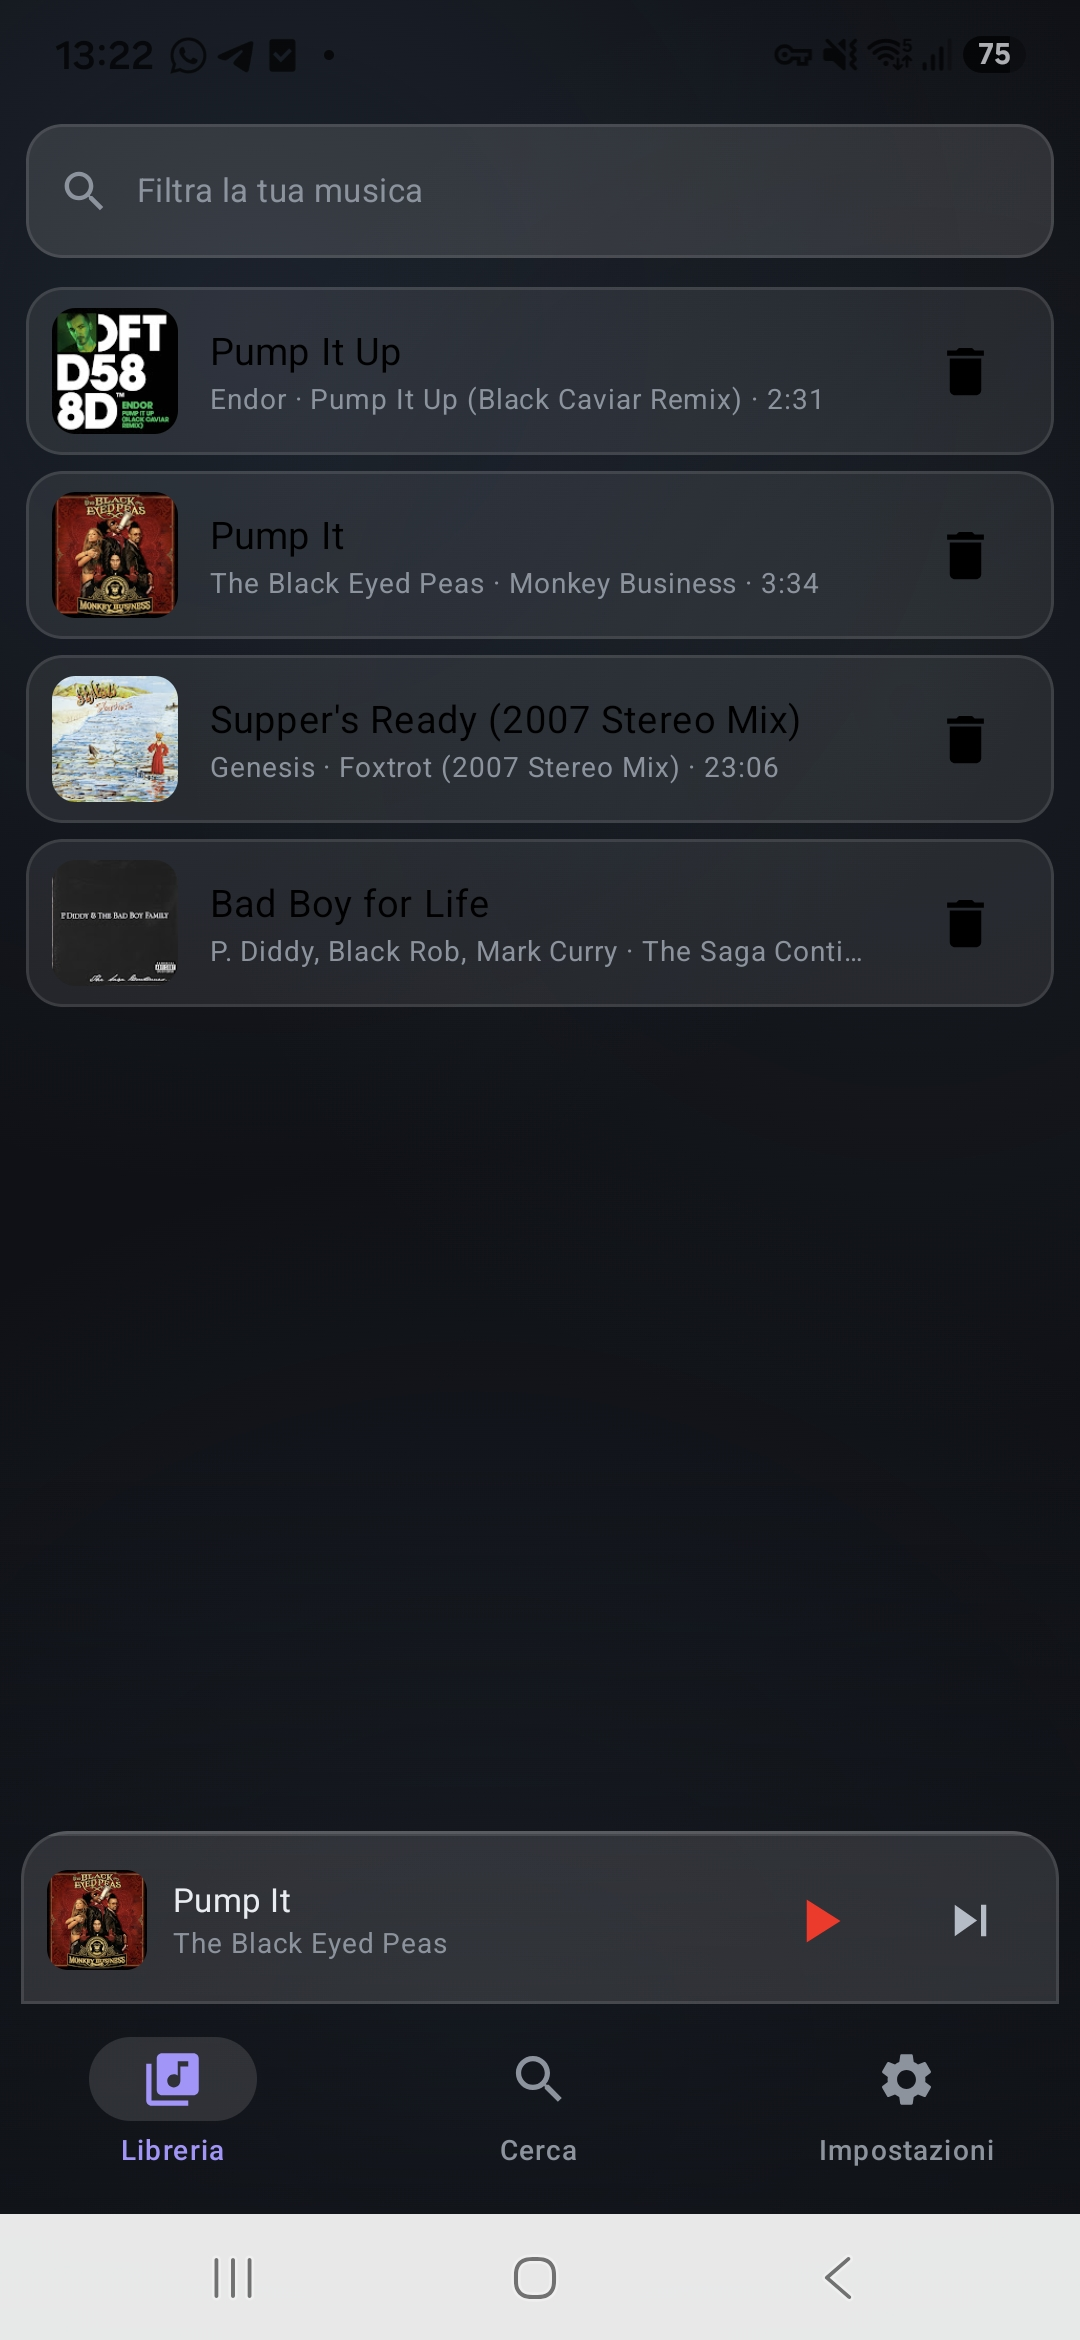
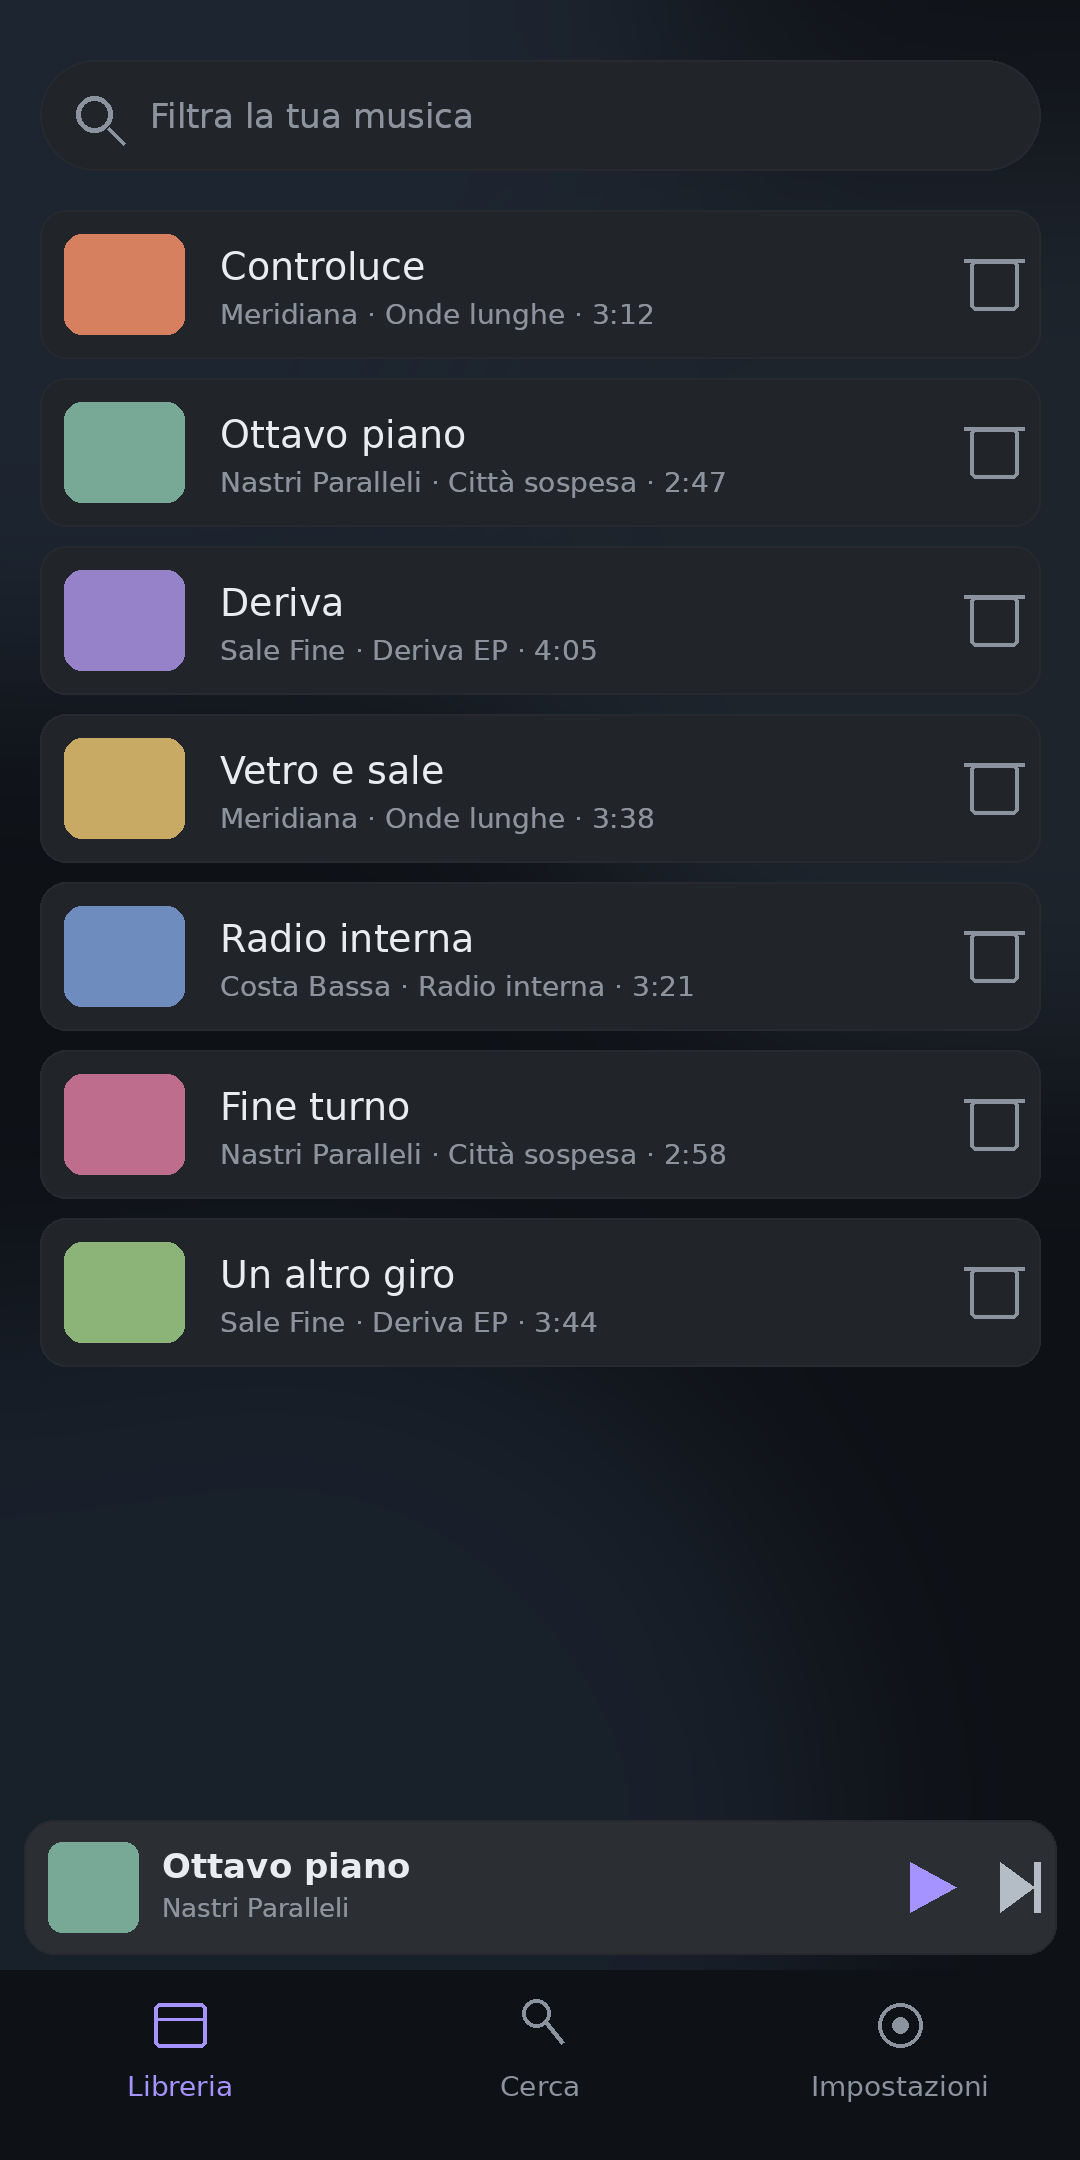
Replace README screenshots with designed mockups (no personal library, no EXIF)

diff --git a/scripts/mockup.py b/scripts/mockup.py
@@ -1,0 +1,198 @@
+"""Genera i due mockup del README dalla palette reale dell'app (Vetro,
+vedi android/app/src/main/java/com/sosound/app/ui/theme/Theme.kt),
+con contenuti di fantasia — non uno screenshot vero, cosi' non porta
+dentro ne' una libreria personale ne' un bug di rendering da capire."""
+
+from PIL import Image, ImageDraw, ImageFont, ImageFilter
+import math
+
+W = 1080
+FONT_DIR = "/usr/share/fonts/truetype/dejavu"
+
+
+def font(size, bold=False):
+    name = "DejaVuSans-Bold.ttf" if bold else "DejaVuSans.ttf"
+    return ImageFont.truetype(f"{FONT_DIR}/{name}", size)
+
+
+GROUND = (14, 17, 22, 255)
+WASH1 = (96, 126, 166)
+WASH2 = (120, 150, 180)
+WASH3 = (80, 110, 150)
+ACCENT = (165, 148, 255, 255)
+ON_ACCENT = (18, 22, 25, 255)
+INK = (233, 236, 241, 255)
+INK_SOFT = (180, 188, 198, 255)
+INK_FAINT = (139, 147, 158, 255)
+GLASS = (255, 255, 255, 20)
+GLASS_STRONG = (255, 255, 255, 31)
+GLASS_EDGE = (255, 255, 255, 26)
+DANGER = (255, 143, 163, 255)
+
+# Tinte diverse per le copertine finte, cosi' le righe si distinguono
+# senza dover disegnare copertine vere.
+COVERS = [
+    (214, 128, 96), (120, 168, 150), (150, 130, 200),
+    (200, 170, 100), (110, 140, 190), (190, 110, 140),
+    (140, 180, 120), (170, 150, 210),
+]
+
+
+def base_canvas(h):
+    img = Image.new("RGBA", (W, h), GROUND)
+    wash = Image.new("RGBA", (W, h), (0, 0, 0, 0))
+    wd = ImageDraw.Draw(wash)
+    for (cx, cy, r, color) in [
+        (W * 0.15, h * 0.08, W * 0.55, (*WASH1, 46)),
+        (W * 0.9, h * 0.28, W * 0.5, (*WASH2, 36)),
+        (W * 0.25, h * 0.85, W * 0.6, (*WASH3, 40)),
+    ]:
+        wd.ellipse([cx - r, cy - r, cx + r, cy + r], fill=color)
+    wash = wash.filter(ImageFilter.GaussianBlur(120))
+    img = Image.alpha_composite(img, wash)
+    return img
+
+
+def glass_panel(draw, box, radius=26, strong=False):
+    draw.rounded_rectangle(box, radius=radius, fill=(GLASS_STRONG if strong else GLASS))
+    draw.rounded_rectangle(box, radius=radius, outline=GLASS_EDGE, width=2)
+
+
+def text_ellipsis(draw, text, f, max_width):
+    if draw.textlength(text, font=f) <= max_width:
+        return text
+    while text and draw.textlength(text + "…", font=f) > max_width:
+        text = text[:-1]
+    return text + "…"
+
+
+def nav_bar(draw, active, h):
+    y0 = h - 190
+    draw.rectangle([0, y0, W, h], fill=(0, 0, 0, 0))
+    items = [("Libreria", "libreria"), ("Cerca", "cerca"), ("Impostazioni", "impostazioni")]
+    cell = W / 3
+    f = font(28)
+    for i, (label, key) in enumerate(items):
+        cx = cell * i + cell / 2
+        color = ACCENT if key == active else INK_FAINT
+        # icone semplificate, non i glifi Material veri: bastano a
+        # leggersi come "libreria/cerca/impostazioni" in miniatura.
+        icy = y0 + 55
+        if key == "libreria":
+            draw.rounded_rectangle([cx - 26, icy - 22, cx + 26, icy + 22], radius=6, outline=color, width=4)
+            draw.line([cx - 26, icy - 6, cx + 26, icy - 6], fill=color, width=3)
+        elif key == "cerca":
+            draw.ellipse([cx - 18, icy - 26, cx + 10, icy + 2], outline=color, width=4)
+            draw.line([cx + 6, icy - 2, cx + 22, icy + 18], fill=color, width=4)
+        else:
+            draw.ellipse([cx - 22, icy - 22, cx + 22, icy + 22], outline=color, width=4)
+            draw.ellipse([cx - 8, icy - 8, cx + 8, icy + 8], fill=color)
+        tw = draw.textlength(label, font=f)
+        draw.text((cx - tw / 2, y0 + 100), label, font=f, fill=color)
+
+
+def mockup_library(path):
+    h = 2160
+    img = base_canvas(h)
+    d = ImageDraw.Draw(img)
+
+    # barra di ricerca
+    glass_panel(d, [40, 60, W - 40, 170], radius=55)
+    d.ellipse([76, 96, 112, 132], outline=INK_FAINT, width=5)
+    d.line([108, 128, 124, 144], fill=INK_FAINT, width=5)
+    d.text((150, 96), "Filtra la tua musica", font=font(34), fill=INK_FAINT)
+
+    tracks = [
+        ("Controluce", "Meridiana · Onde lunghe", "3:12"),
+        ("Ottavo piano", "Nastri Paralleli · Città sospesa", "2:47"),
+        ("Deriva", "Sale Fine · Deriva EP", "4:05"),
+        ("Vetro e sale", "Meridiana · Onde lunghe", "3:38"),
+        ("Radio interna", "Costa Bassa · Radio interna", "3:21"),
+        ("Fine turno", "Nastri Paralleli · Città sospesa", "2:58"),
+        ("Un altro giro", "Sale Fine · Deriva EP", "3:44"),
+    ]
+
+    y = 210
+    row_h = 168
+    for i, (title, sub, dur) in enumerate(tracks):
+        glass_panel(d, [40, y, W - 40, y + row_h - 20])
+        cover = COVERS[i % len(COVERS)]
+        cd = [64, y + 24, 64 + 120, y + row_h - 44]
+        d.rounded_rectangle(cd, radius=18, fill=(*cover, 255))
+        tx = 220
+        d.text((tx, y + 34), title, font=font(38), fill=INK)
+        sub_full = f"{sub} · {dur}"
+        sub_shown = text_ellipsis(d, sub_full, font(28), W - 40 - 100 - tx)
+        d.text((tx, y + 88), sub_shown, font=font(28), fill=INK_FAINT)
+        # cestino, minimale
+        txx = W - 110
+        d.rounded_rectangle([txx, y + 50, txx + 48, y + 100], radius=6, outline=INK_FAINT, width=4)
+        d.line([txx - 6, y + 50, txx + 54, y + 50], fill=INK_FAINT, width=4)
+        y += row_h
+
+    # barra del player
+    py = h - 190 - 150
+    glass_panel(d, [24, py, W - 24, py + 134], radius=30, strong=True)
+    d.rounded_rectangle([48, py + 22, 48 + 90, py + 22 + 90], radius=14, fill=(*COVERS[1], 255))
+    d.text((162, py + 26), "Ottavo piano", font=font(34, bold=True), fill=INK)
+    d.text((162, py + 72), "Nastri Paralleli", font=font(26), fill=INK_FAINT)
+    cx = W - 170
+    d.polygon([(cx, py + 42), (cx, py + 92), (cx + 46, py + 67)], fill=ACCENT)
+    cx2 = W - 80
+    d.polygon([(cx2, py + 42), (cx2, py + 92), (cx2 + 34, py + 67)], fill=INK_SOFT)
+    d.rectangle([cx2 + 34, py + 42, cx2 + 40, py + 92], fill=INK_SOFT)
+
+    nav_bar(d, "libreria", h)
+
+    Image.alpha_composite(Image.new("RGBA", (W, h), GROUND), img).convert("RGB").save(path)
+
+
+def mockup_settings(path):
+    h = 1150
+    img = base_canvas(h)
+    d = ImageDraw.Draw(img)
+
+    d.text((48, 64), "Impostazioni", font=font(48, bold=True), fill=INK)
+
+    cards = [
+        {
+            "title": "Sul telefono",
+            "lines": [("128 brani · 412 MB", INK, 36)],
+        },
+        {
+            "title": "Motore di scaricamento",
+            "lines": [("yt-dlp pronto", INK_SOFT, 32)],
+            "button": "Aggiorna yt-dlp",
+        },
+        {
+            "title": "Aggiornamenti dell'app",
+            "lines": [("Hai la versione 1.1.0", INK_SOFT, 32)],
+            "button": "Controlla aggiornamenti",
+        },
+    ]
+
+    y = 200
+    for card in cards:
+        h_card = 210 + (70 if "button" in card else 0)
+        glass_panel(d, [40, y, W - 40, y + h_card])
+        d.text((72, y + 34), card["title"], font=font(38, bold=True), fill=INK)
+        ly = y + 94
+        for text, color, size in card["lines"]:
+            d.text((72, ly), text, font=font(size), fill=color)
+            ly += size + 14
+        if "button" in card:
+            by = y + h_card - 90
+            d.rounded_rectangle([72, by, W - 72, by + 60], radius=18, fill=ACCENT)
+            bw = d.textlength(card["button"], font=font(30, bold=True))
+            d.text(((W - bw) / 2, by + 12), card["button"], font=font(30, bold=True), fill=ON_ACCENT)
+        y += h_card + 32
+
+    Image.alpha_composite(Image.new("RGBA", (W, h), GROUND), img).convert("RGB").save(path)
+
+
+if __name__ == "__main__":
+    import sys
+    out = sys.argv[1] if len(sys.argv) > 1 else "."
+    mockup_library(f"{out}/libreria.png")
+    mockup_settings(f"{out}/impostazioni.png")
+    print("fatto")
